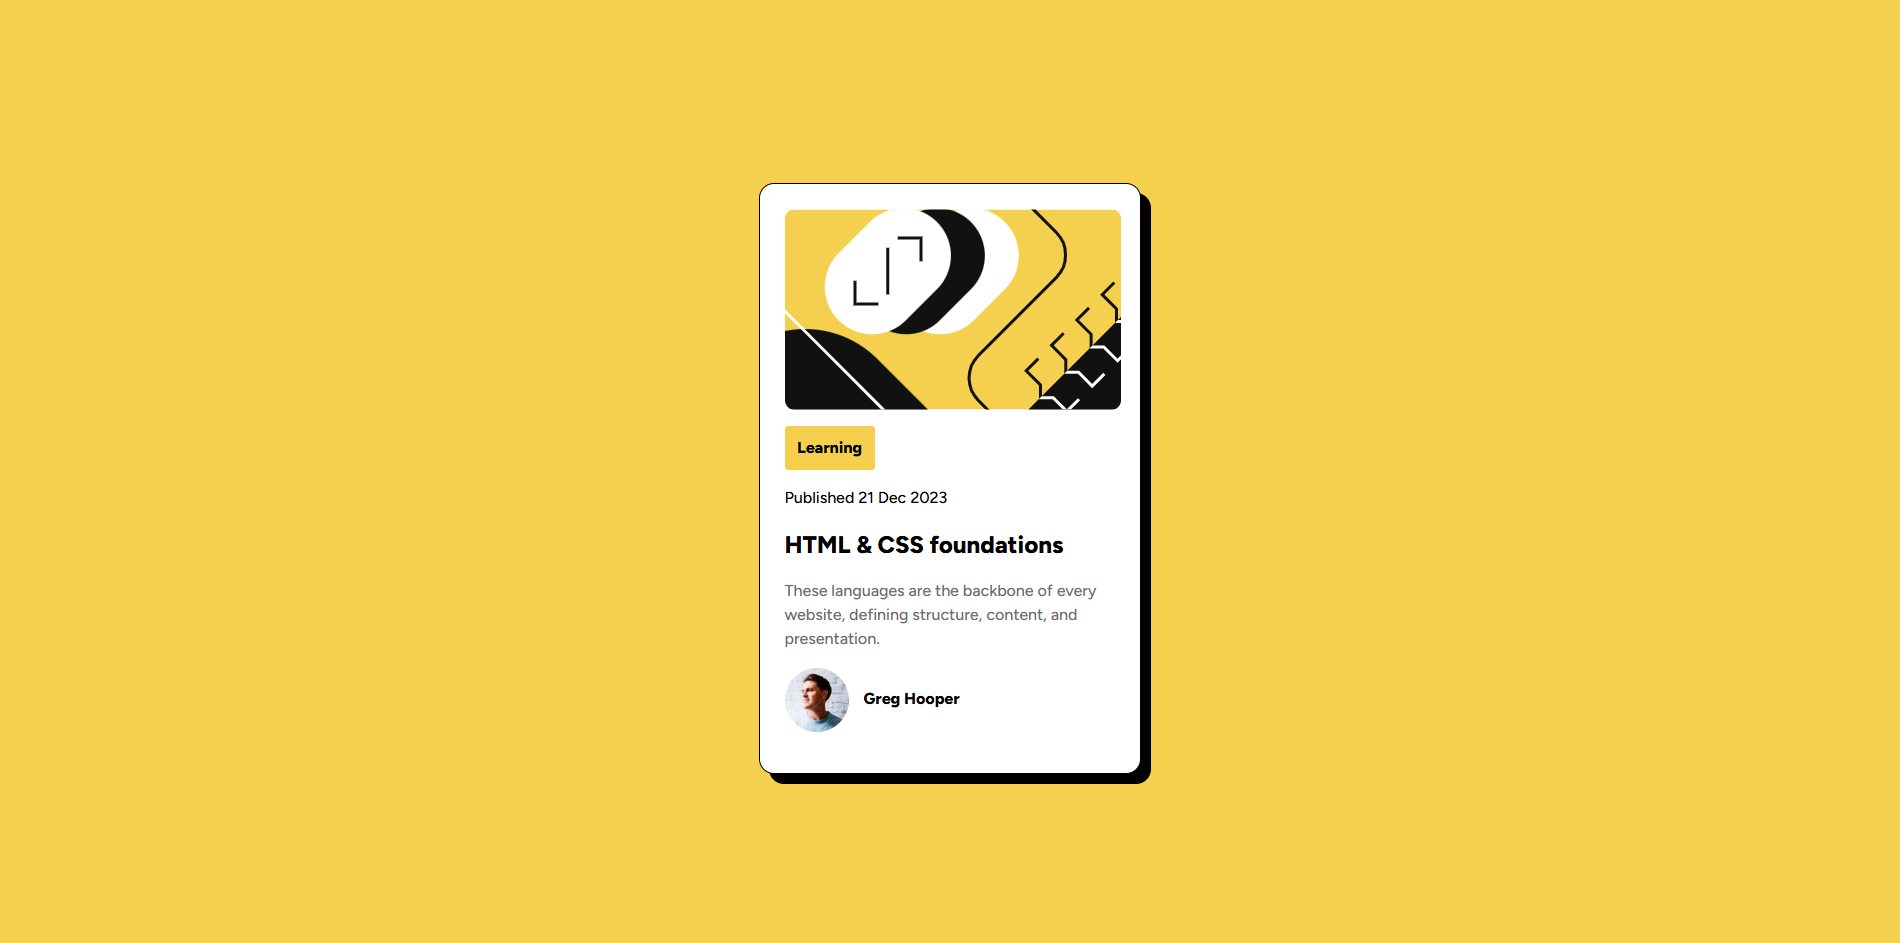
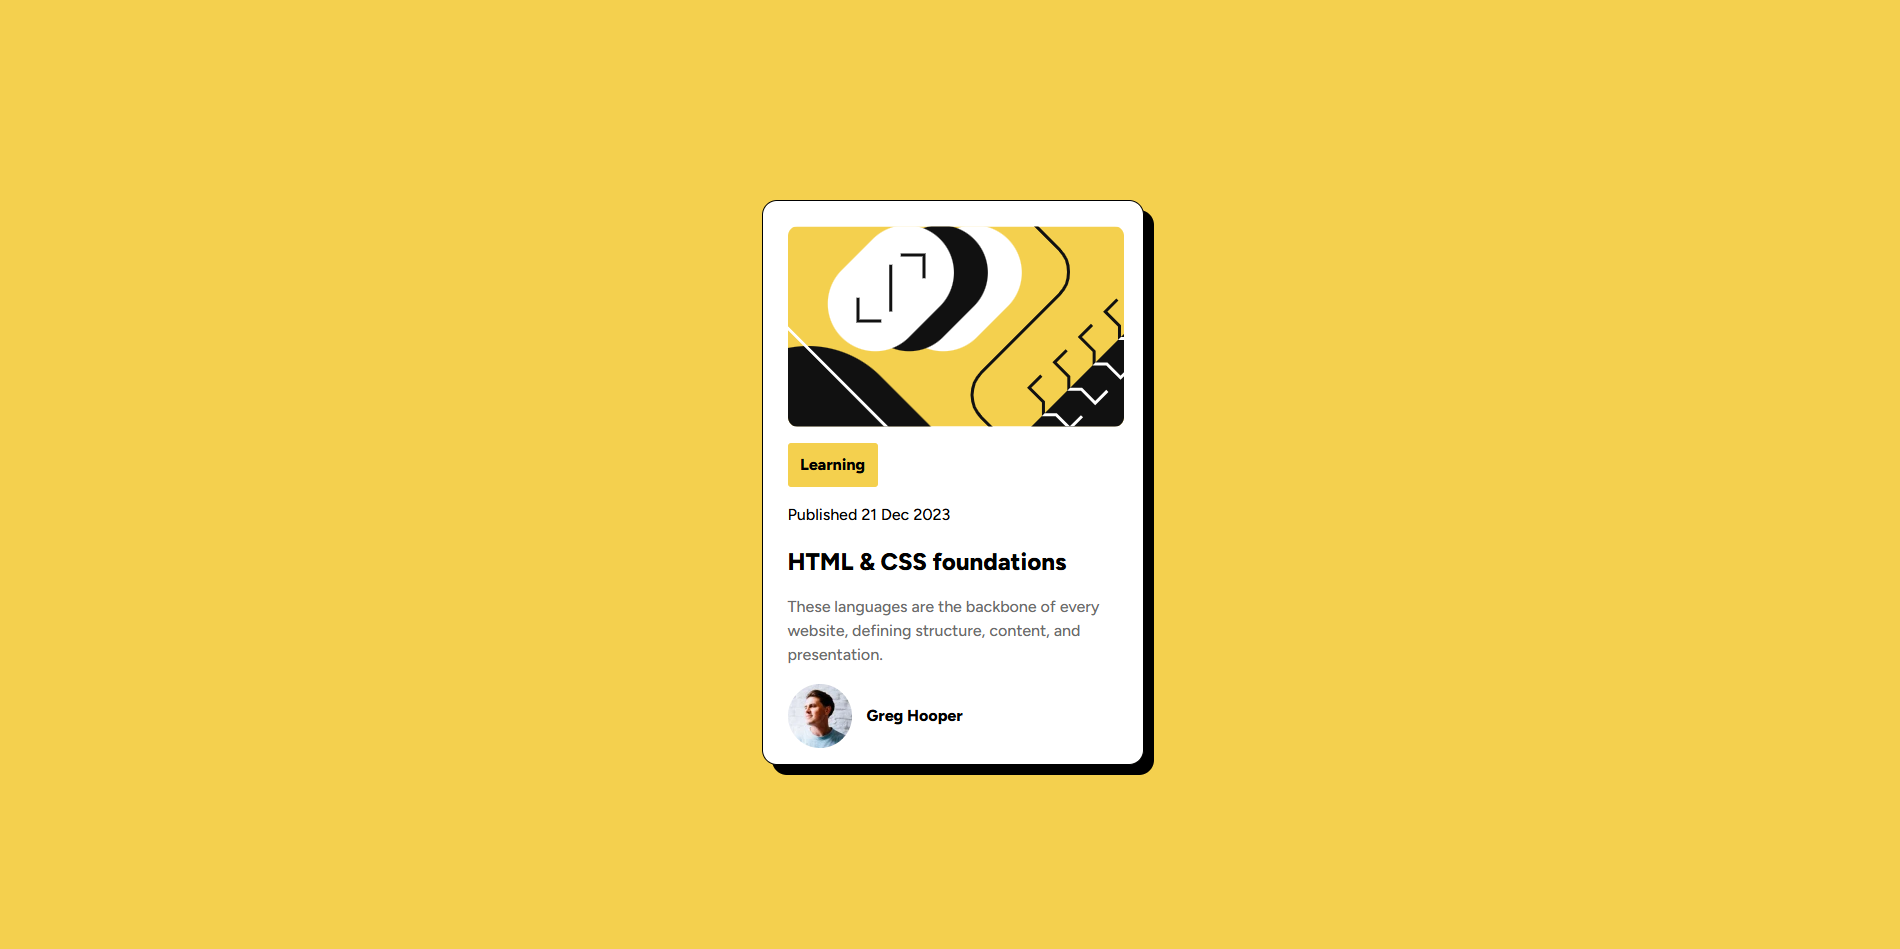
final commit

Changed region(s): [[0.4037, 0.1845, 0.6211, 0.8303]]

diff --git a/index.html b/index.html
@@ -39,7 +39,7 @@
       border: 1px solid black;
       box-shadow: 10px 10px;
       max-width: 330px;
-      padding: 25px;
+      padding: 25px 25px 0px;
     }
     .learning{
       background-color: hsl(47, 88%, 63%);
